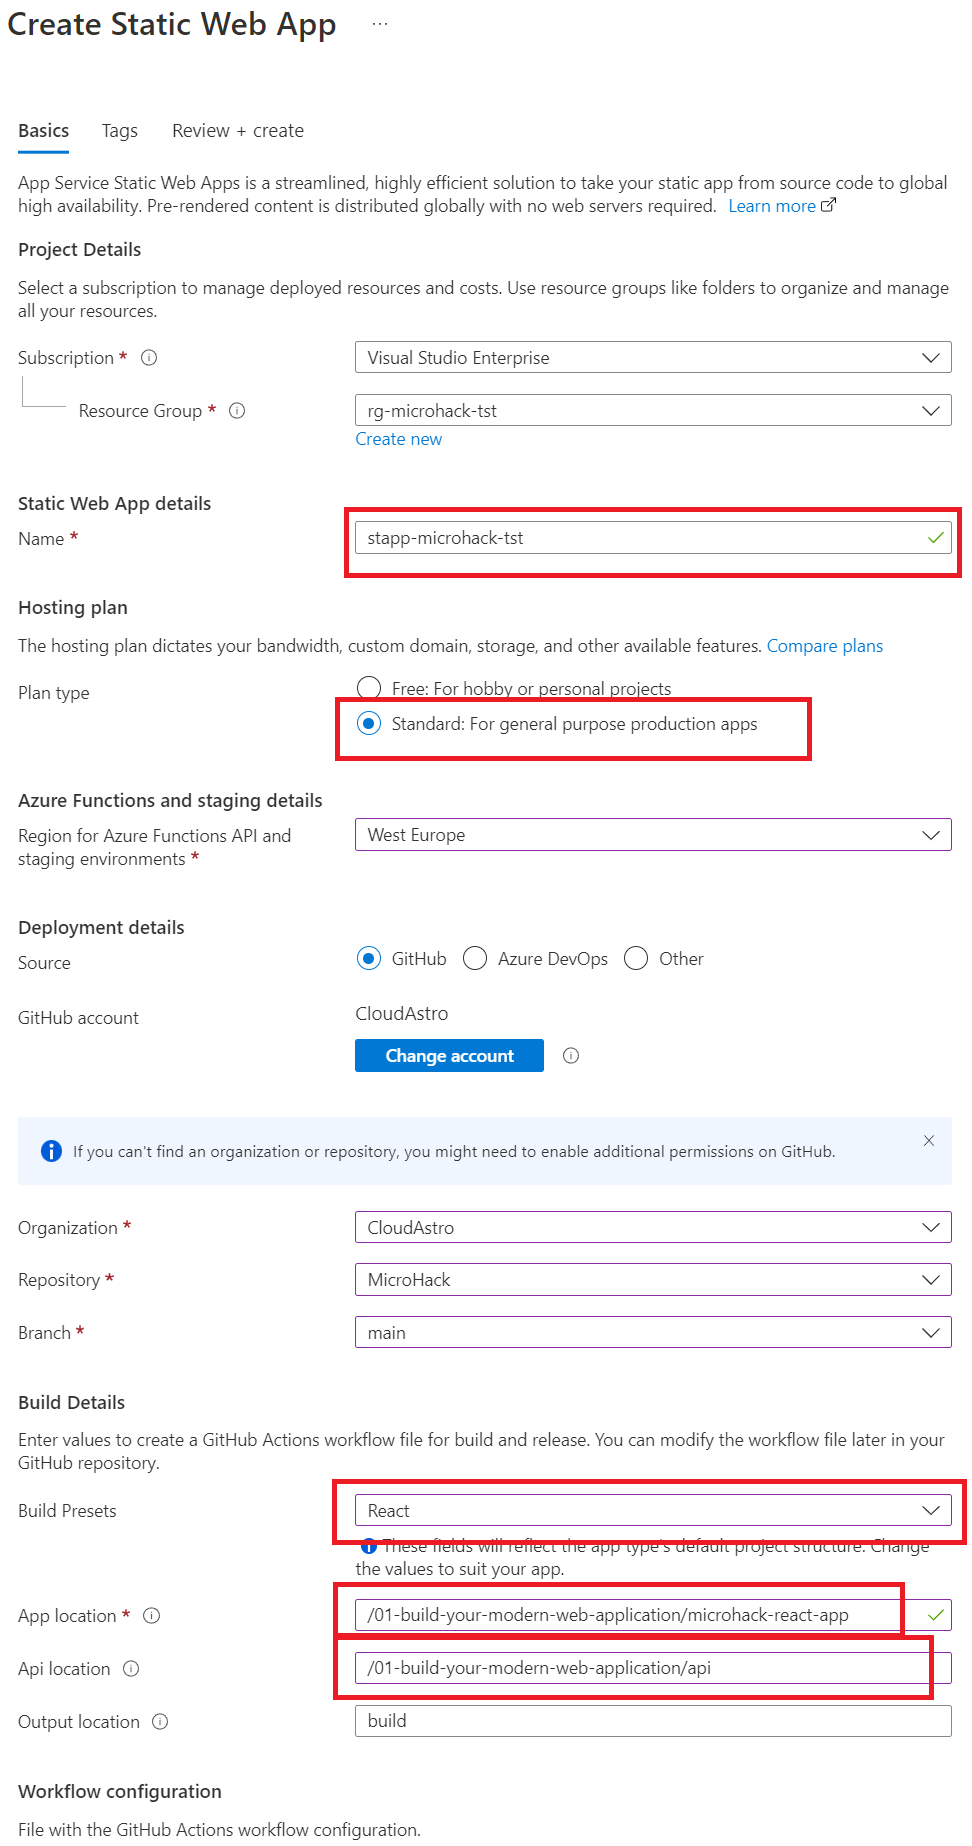
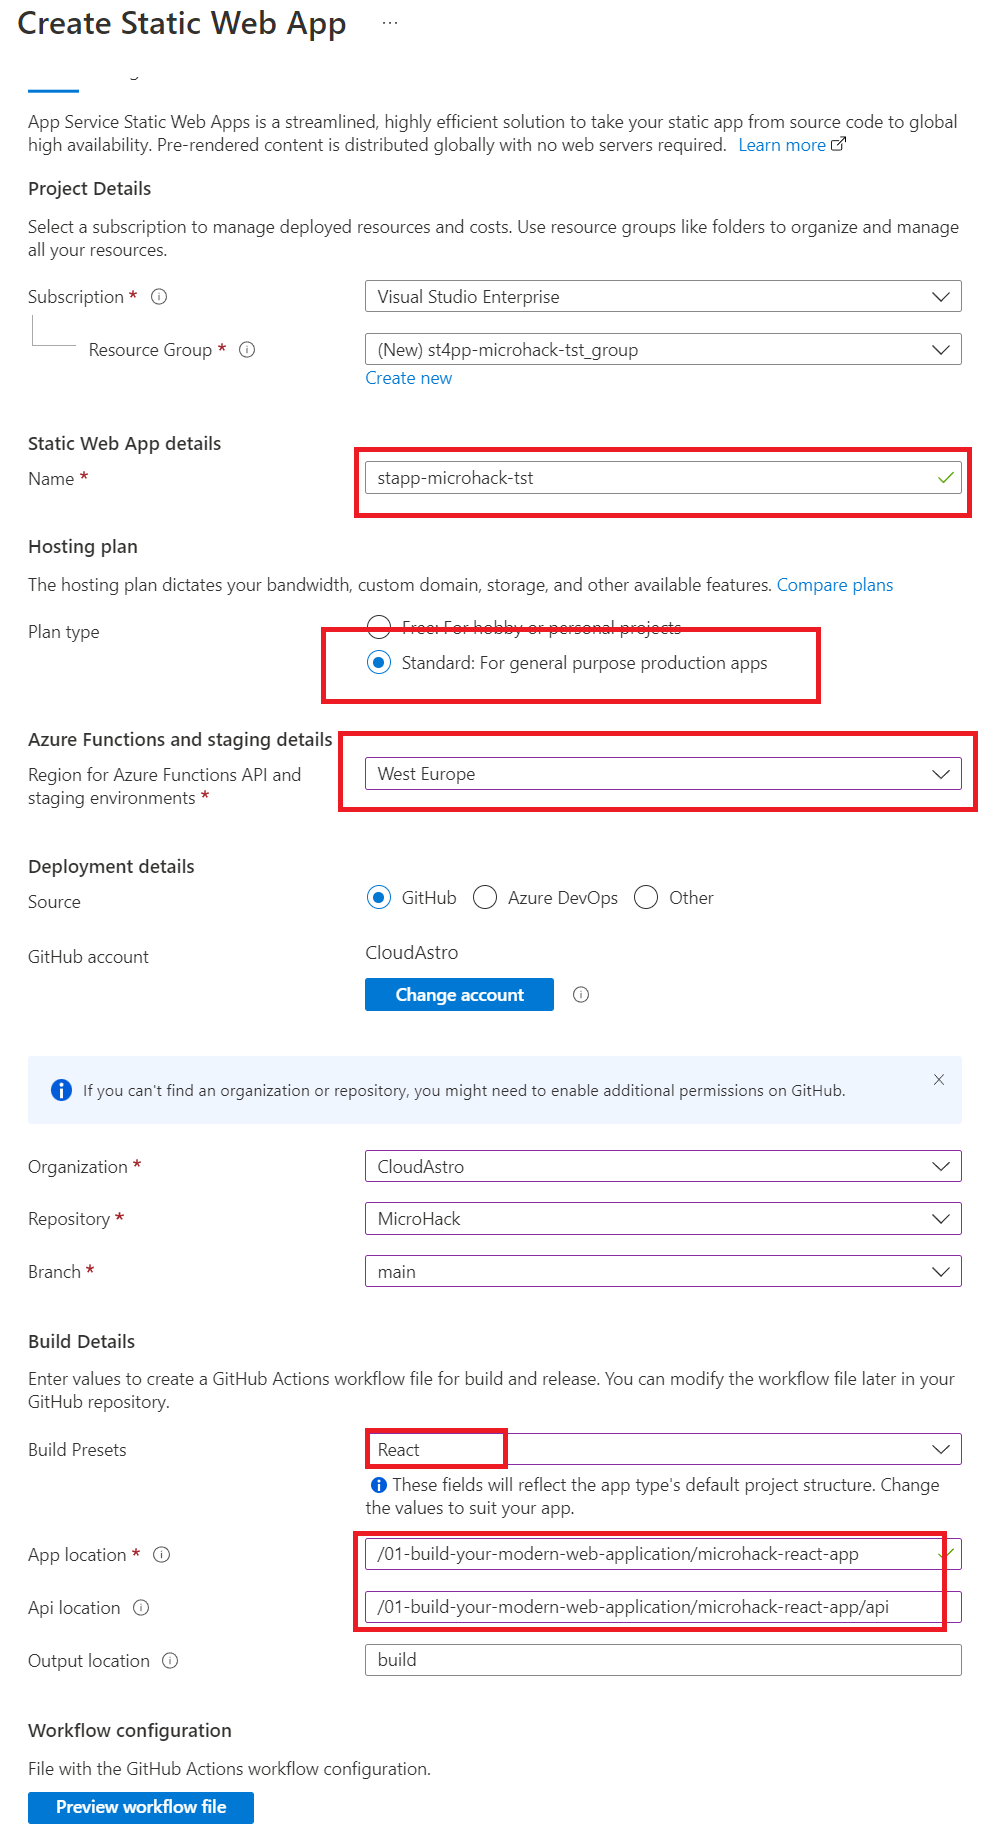
Changed API location in relation - test

diff --git a/01-build-your-modern-web-application/SolutionGuide/03-Deploy-as-static-web-app-solution.md b/01-build-your-modern-web-application/SolutionGuide/03-Deploy-as-static-web-app-solution.md
@@ -46,7 +46,7 @@ Set a Http Trigger and select Java Script as language.
 
 ![image](../.images/06-create-staticwebapp-api-3.png)
 
-When finished, move the newly created api folder to the folder `01-build-your-modern-web-application`
+When finished, move the newly created api folder to the folder `01-build-your-modern-web-application\microhack-react-app`
 
 ![image](../.images/06-create-staticwebapp-api-4.png)
 
@@ -69,7 +69,7 @@ Then type the following commands:
 
 Then we can integrate the Web Frontend and the API Function by typing:
 
-`swa start build --api-location ../api`
+`swa start build --api-location api`
 
 In the PowerShell window, the URL is displayed how to call the API. In my case it is localhost port 7071:
 
